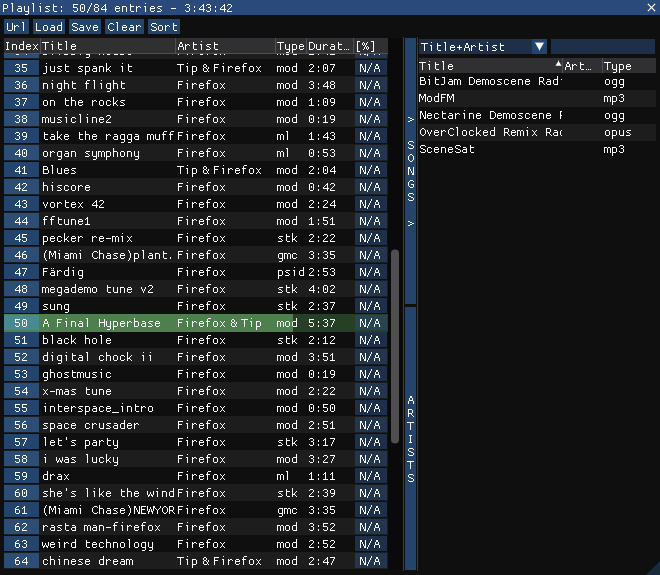
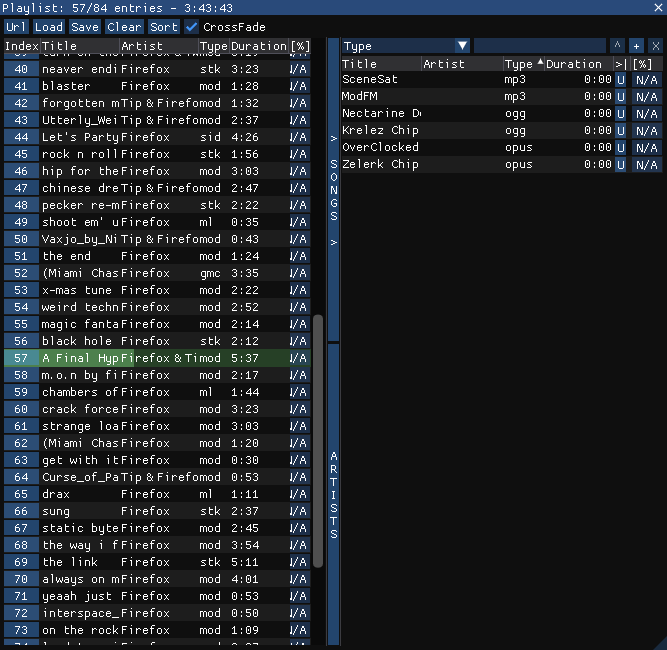
bump version to 0.22.2

Changed region(s): [[0.0, 0.0, 1.0, 1.0]]

diff --git a/source/RePlayer/Version.h b/source/RePlayer/Version.h
@@ -2,7 +2,7 @@
 
 #define REPLAYER_VERSION_MAJOR 0
 #define REPLAYER_VERSION_MINOR 22
-#define REPLAYER_VERSION_PATCH 1
+#define REPLAYER_VERSION_PATCH 2
 
 #define VER_STRINGIZE(x) #x
 #define VER_STR(x) VER_STRINGIZE(x)

diff --git a/README.md b/README.md
@@ -117,6 +117,7 @@ You can select the songs and reorder these. Click on the numbered button to trac
 An Url button to add a list of links to the playlist.  
 Buttons to load, save or clear the playlist.  
 And a button to sort (by type, artists, duration, type or random/shuffle). If you press Ctrl, the sort will happen only for entries after the current playing one.  
+A checkbox to enable or disable the crossfade between songs.  
 Note 1: if you drag and drop files in there, the playlist will have a sidebar with buttons which open a database like the library managing all these files and urls. It's almost working the same way as the library.  
 Note 2: while drag and dropping files, keep Ctrl pressed to force all files in the playlist (by default, they are filtered by their extension or prefix). Keep Shift pressed and the current playlist is cleared. You can also drop on the deck.  
 Note 3: you can drag and drop url. On load, it will download the song or stream the online radio.
@@ -129,7 +130,11 @@ Enable/disable the songs focus there (when a song start to play, it is focused i
 Enable/disable the auto merge when a song is download from the library.  
 AutoSave frequency of the rePlayer. (it will save on quit anyway).  
 Enable/disable the media hot keys (for playback and volume).  
+Change the curve for the volume.  
+Enable the ReplayGain and/or the check for it on every load.  
+Crossfade duration.  
 Transparency of the windows (not available on the win32 release).  
+Scale the UI if it's too small for you eyes.  
 Live log can be enabled/disabled as well as its save on the disk. The logs retention can be changed too (older log files than the retention days limit are deleted).  
 Extension can be associated with a replay or let the scanner choose the first available one.  
 You can change the global settings of each players. I will not enter into the details here, I'm too lazy (I've just enabled by default my simple surround filter because I like it).
@@ -188,6 +193,7 @@ Or add some comments (and likes) there:
 - [FFTW](https://www.fftw.org): library for computing the discrete Fourier transform.
 - [JSON](https://github.com/nlohmann/json): JSON for Modern C++.
 - [libarchive](https://github.com/libarchive/libarchive): to read and write streaming archives (zip, rar...).
+- [libebur128](https://github.com/jiixyj/libebur128): a library implementing the EBU R128 loudness standard.
 - [libxml2](https://gitlab.gnome.org/GNOME/libxml2): XML toolkit.
 - [stb](https://github.com/nothings/stb): for the optimized sprintf.
 - [TagLib](https://taglib.org): to read tag from music formats.
@@ -196,7 +202,7 @@ Or add some comments (and likes) there:
 - [adplug](https://github.com/adplug/adplug): a free AdLib sound player library.
 - [ASAP](http://asap.sourceforge.net): Another Slight Atari Player.
 - [Ayfly](https://github.com/l29ah/ayfly): Cross-platform AY-3-8910 music player.
-- [Ayumi](http://sovietov.com/app/ayumi/ayumi.html): Highly precise emulation of AY-3-8910 and YM2149 sound chips. webAyumi for amad & fxm backend.
+- [Ayumi](https://github.com/true-grue/ayumi): Highly precise emulation of AY-3-8910 and YM2149 sound chips. webAyumi for amad & fxm backend.
 - [Buzzic 2](https://www.pouet.net/prod.php?which=54407): Music synthesizing tool.
 - [Direct Stream Digital](https://github.com/Sound-Linux-More/sacd): Plays Philips DSDIFF and Sony DSF files, heavily inspired by SACD Decoder from Robert Tari.
 - [dr_libs](https://github.com/mackron/dr_libs): FLAC and MP3 audio decoders; WAV audio loader and writer.

diff --git a/CHANGELOG.md b/CHANGELOG.md
@@ -5,10 +5,16 @@
 
 ## Current version
 
+v0.22.2:
+- Updated libfc14audiodecoder to 1.0.7
+- Updated libsidplay to 3.0.0
+- Added CrossFade
+- Added ReplayGain
+- Updated libcurl to 8.20.0
+- Bug fixes
+
 v0.22.1:
 - Updated FluidSynth to 2.5.4
-- Updated libgme to 0.6.5
-- Updated SNDH-Player to 1.00
 - Added Properties to display current song details
 - Bug fixes
 
@@ -18,38 +24,28 @@ v0.22.0:
 - Added FMPlayer
 - Added Professional Music Driver
 - Added PxTone
-- Updated ASAP to 8.0.0
-- Updated libfc14audiodecoder to libtfmxaudiodecoder 1.0.4
-- Updated libxmp to 4.7.0
-- Updated OpenMPT to 0.9.0-pre.12 r24999
-- Updated modland to import FMP
-- Updated dr_wav to 0.14.5
-- Updated ImGui to 1.92.7
-- Updated libarchive to 3.8.7
-- Updated libcurl to 8.19.0
-- Updated TagLib to 2.2.1
 - Added Browser Tab to look into online repositories
 - Bug fixes
 
 ## Older updates
 
 - [0.19.4] adplug to 2.4 r916
-- [0.21.9] ASAP to 7.0.0
+- [0.22.0] ASAP to 8.0.0
 - [0.17.3] FAAD2 to 2.11.2
 - [0.19.4] Furnace to 0.6.8.3
-- [0.21.9] libfc14audiodecoder to libtfmxaudiodecoder 1.0.2
+- [0.22.0] libfc14audiodecoder to 1.0.4
 - [0.21.9] gbsplay to 0.0.101
 - [0.9.4] Highly Advanced (cog 2023-09-30)
-- [0.20.4] libgme to 0.6.4.414
+- [0.22.1] libgme to 0.6.5
 - [0.16.15] libkss to 1.2.1
 - [0.16.15] libsc68 to 3.0.0a r706
 - [0.21.9] libsidplay to 2.16.0
 - [0.21.9] libvgm to 57585ea
-- [0.19.4] libxmp to 4.6.3
-- [0.21.9] OpenMPT to 0.9.0-pre.12 r24873
+- [0.22.0] libxmp to 4.7.0
+- [0.22.0] OpenMPT to 0.9.0-pre.12 r24999
 - [0.21.9] Opus to 1.6.1
 - [0.17.3] ProTrekkr to 2.8.2
-- [0.19.4] SNDH-Player to 0.80
+- [0.22.1] SNDH-Player to 1.00
 - [0.21.9] SunVox to 2.1.4
 - [0.16.15] UADE to 3.0.5
 - [0.21.9] vgmstream to r2083
@@ -57,13 +53,13 @@ v0.22.0:
 - [0.17.3] ZXTune to r5081
 - [0.21.9] dr_flac to 0.13.3
 - [0.21.9] dr_mp3 to 0.7.3
-- [0.21.9] dr_wav to 0.14.4
+- [0.22.0] dr_wav to 0.14.5
 - [0.21.9] FFTW 3.3.10
-- [0.21.9] ImGui to 1.92.5
-- [0.21.9] libarchive to 3.8.5
-- [0.21.9] libcurl to 8.18.0
+- [0.22.0] ImGui to 1.92.7
+- [0.22.0] libarchive to 3.8.7
+- [0.22.0] libcurl to 8.19.0
 - [0.21.9] libxml2 to 2.15.1
-- [0.19.4] TagLib to 2.1.1
+- [0.22.0] TagLib to 2.2.1
 
 ## Older players
 
@@ -115,6 +111,7 @@ v0.22.0:
 - [0.5.2] Modland: Dreamcast Sound Format import
 - [0.10.0] Modland: Euphony import
 - [0.9.4] Modland: FAC SoundTracker import
+- [0.22.0] Modland: FMP import
 - [0.9.4] Modland: Hippel ST COSO import
 - [0.9.4] Modland: MoonBlaster import
 - [0.5.2] Modland: Nintendo DS Sound Format import

diff --git a/TODO.md b/TODO.md
@@ -4,11 +4,12 @@
 - add radios database: https://de1.api.radio-browser.info/#List_of_all_radio_stations
 - sidplay: stereo resid (to remove dual sid in replayer for stereo...)
 - move surround from replays to player 
-- ASAP full stereo + song length edit
 - player: command buffer (play, stop...) to handle everything in the thread (no more extra thread management)
+- player: refactor position (get rid of m_seekPos, use a m_playingPosition to simplify everything)
 - check vgmrips: all packs https://vgmrips.net/packs/sitemap.php
 - sanitize songs and artists strings fields on import (remove "\n" "\r")
 - playlist rework: main contains current playlist by name and do not store list of playlists (just populate from disk), each playlist saves its own currently playing
+- maybe think about multiple libraries (keep the defaut one as import library, and other libraries such as playlist to avoid cache the song)
 - viewport validation (check if the windows are outside the screen because of some windows shit)
 - array: change ReturnType (is_pointer, is_reference,...) with a trait enum type (enum return type value, index, pointer, ref)
 - seek: return the number of loops
@@ -23,8 +24,6 @@
 - support for .cue, .m3u, .pls
 - pure database random play (System::Mode::Random)
 - duplicates finder (https://github.com/jmacd/xdelta https://github.com/ilanschnell/bsdiff4 https://github.com/sisong/HDiffPatch)
-- audio normalization/replaygain (https://github.com/jiixyj/libebur128)
-- crossfader
 - editable countries (to prevent missing ones)
 - remove std::string
 - memory allocator profiler

diff --git a/3rdParties.md b/3rdParties.md
@@ -9,6 +9,7 @@
 - FFTW: https://www.fftw.org
 - JSON for Modern C++: https://github.com/nlohmann/json
 - libarchive: https://github.com/libarchive/libarchive
+- libebur128: https://github.com/jiixyj/libebur128
 - libxml2: https://gitlab.gnome.org/GNOME/libxml2
 - TagLib: https://taglib.org
 - stb (sprintf): https://github.com/nothings/stb
@@ -58,7 +59,7 @@
 - Psycle: https://sourceforge.net/projects/psycle
 - PxTone: https://pxtone.org/developer & https://github.com/yuxshao/ptweb
 - sc68: https://sourceforge.net/projects/sc68
-- SidPlay: https://github.com/libsidplayfp/libsidplayfp
+- SidPlay: https://github.com/libsidplayfp/libsidplayfp & https://github.com/libsidplayfp/libresidfp
 - SkaleTracker: https://www.pouet.net/prod.php?which=20929
 - SNDH-Player: https://github.com/arnaud-carre/sndh-player
 - SoundMon: Brian Postma website is gone.  
@@ -81,4 +82,3 @@
 
 ## External tools:
 - DXC: https://github.com/microsoft/DirectXShaderCompiler
-- UPX: https://github.com/upx/upx
